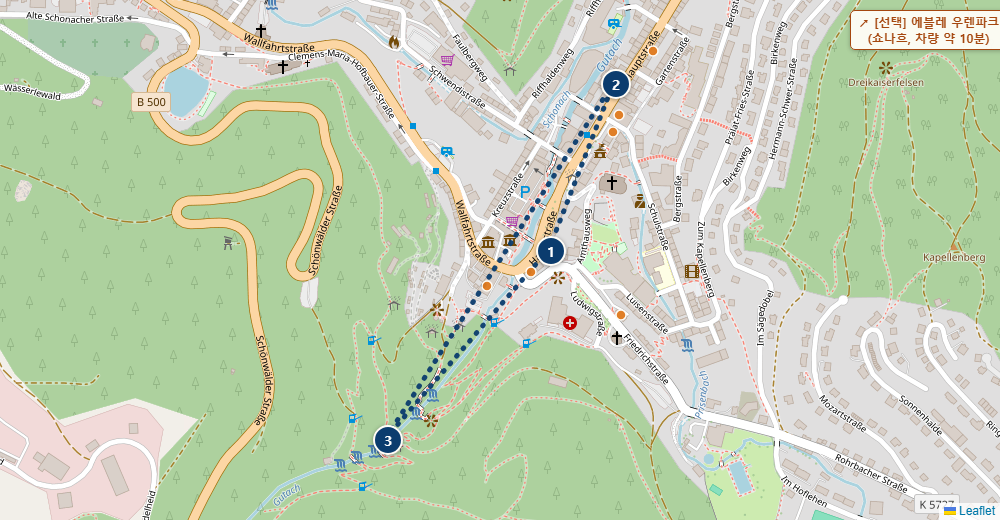
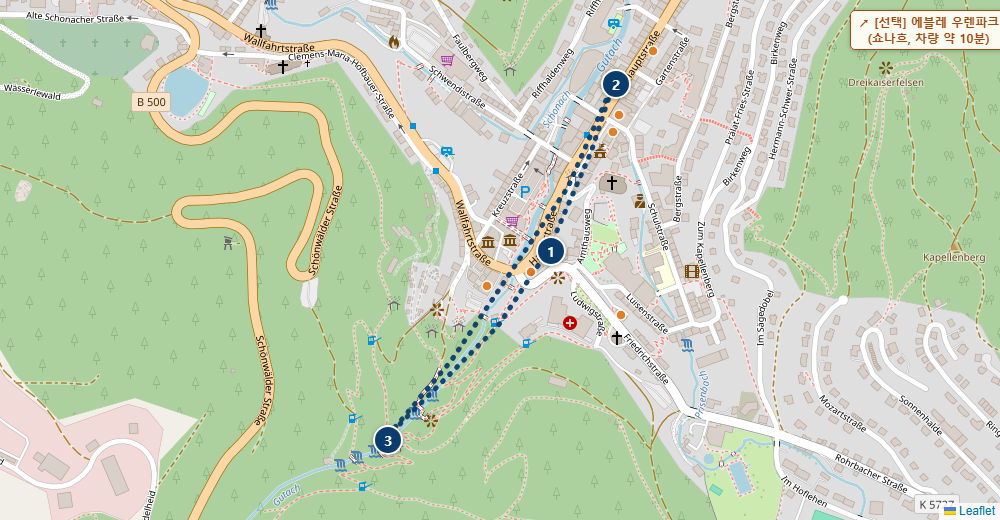
Redraw Triberg walking route waypoints (final city in the real-path pass)
Traced waypoints along Hauptstrasse/Schwarzwaldstrasse; the valley
road here runs close to straight for real geographic reasons, so the
path stays close to direct while still following the visible road
curve rather than a pin-to-pin line. This completes the pass over all
10 cities flagged for straight-line route lines this session
(Rothenburg, Nurnberg, Munich, Neuschwanstein - already fixed earlier
in the session, Freiburg, Triberg, Heidelberg, Rudesheim, Wiesbaden,
Frankfurt).

Changed region(s): [[0.403, 0.1846, 0.62, 0.8], [0.372, 0.8, 0.403, 0.8308]]

diff --git a/germany-roadtrip-planner.html b/germany-roadtrip-planner.html
@@ -3172,7 +3172,7 @@ document.addEventListener('DOMContentLoaded', function(){
       <a class="walk-map-link" href="https://www.google.com/maps/dir/?api=1&travelmode=walking&origin=48.1291,8.2311&destination=48.1291,8.2311&waypoints=48.1315%2C8.2325%7C48.1264,8.2276" target="_blank" rel="noopener">📍 Google 지도로 도보 코스 보기 · 총 약 1.5km · 도보 약 20분</a>
       <div class="route-snapshot">
         <div class="route-snapshot-media">
-          <img src="images/routes/triberg.png" alt="트리베르크 도보 코스 지도 스냅샷" loading="lazy">
+          <img src="images/routes/triberg.png?v=2" alt="트리베르크 도보 코스 지도 스냅샷" loading="lazy">
         </div>
         <ol class="route-steps">
         <li><span class="rs-name">뻐꾸기시계 원조마을</span></li>

diff --git a/index.html b/index.html
@@ -3172,7 +3172,7 @@ document.addEventListener('DOMContentLoaded', function(){
       <a class="walk-map-link" href="https://www.google.com/maps/dir/?api=1&travelmode=walking&origin=48.1291,8.2311&destination=48.1291,8.2311&waypoints=48.1315%2C8.2325%7C48.1264,8.2276" target="_blank" rel="noopener">📍 Google 지도로 도보 코스 보기 · 총 약 1.5km · 도보 약 20분</a>
       <div class="route-snapshot">
         <div class="route-snapshot-media">
-          <img src="images/routes/triberg.png" alt="트리베르크 도보 코스 지도 스냅샷" loading="lazy">
+          <img src="images/routes/triberg.png?v=2" alt="트리베르크 도보 코스 지도 스냅샷" loading="lazy">
         </div>
         <ol class="route-steps">
         <li><span class="rs-name">뻐꾸기시계 원조마을</span></li>
